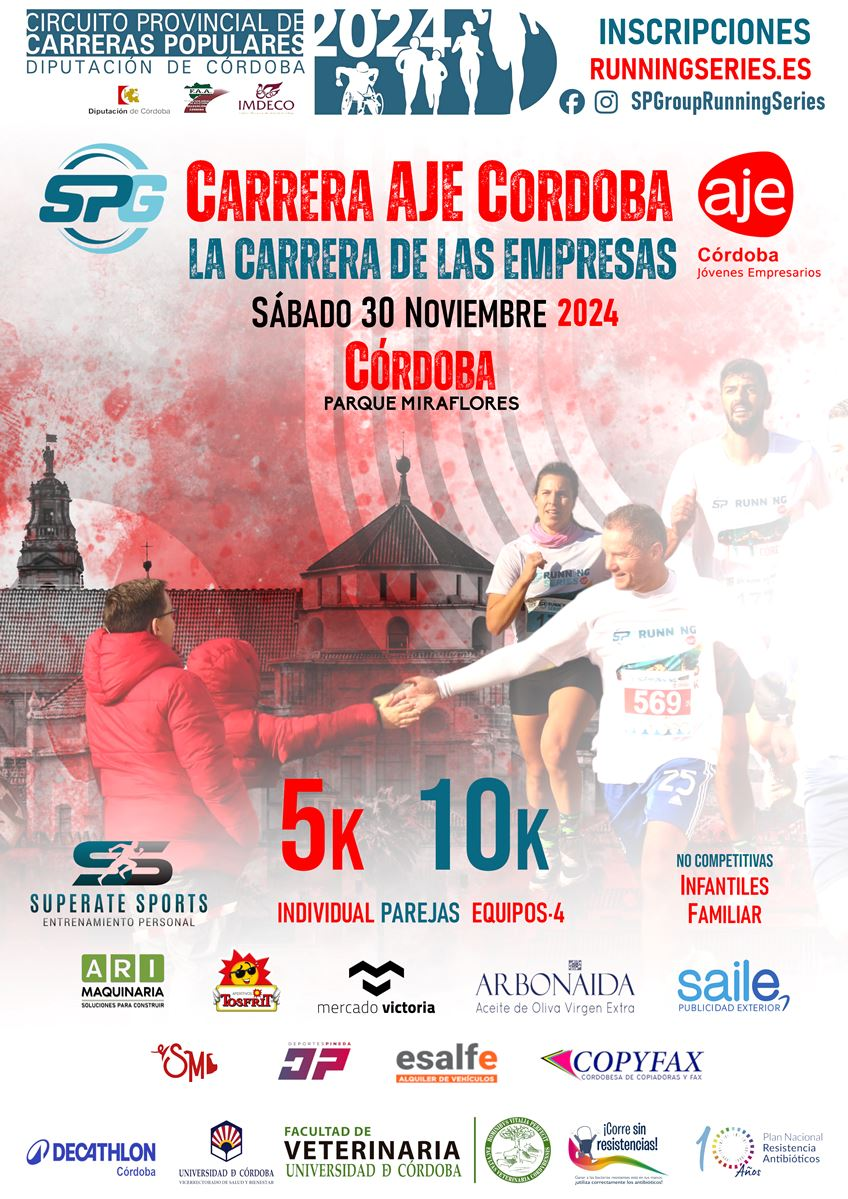
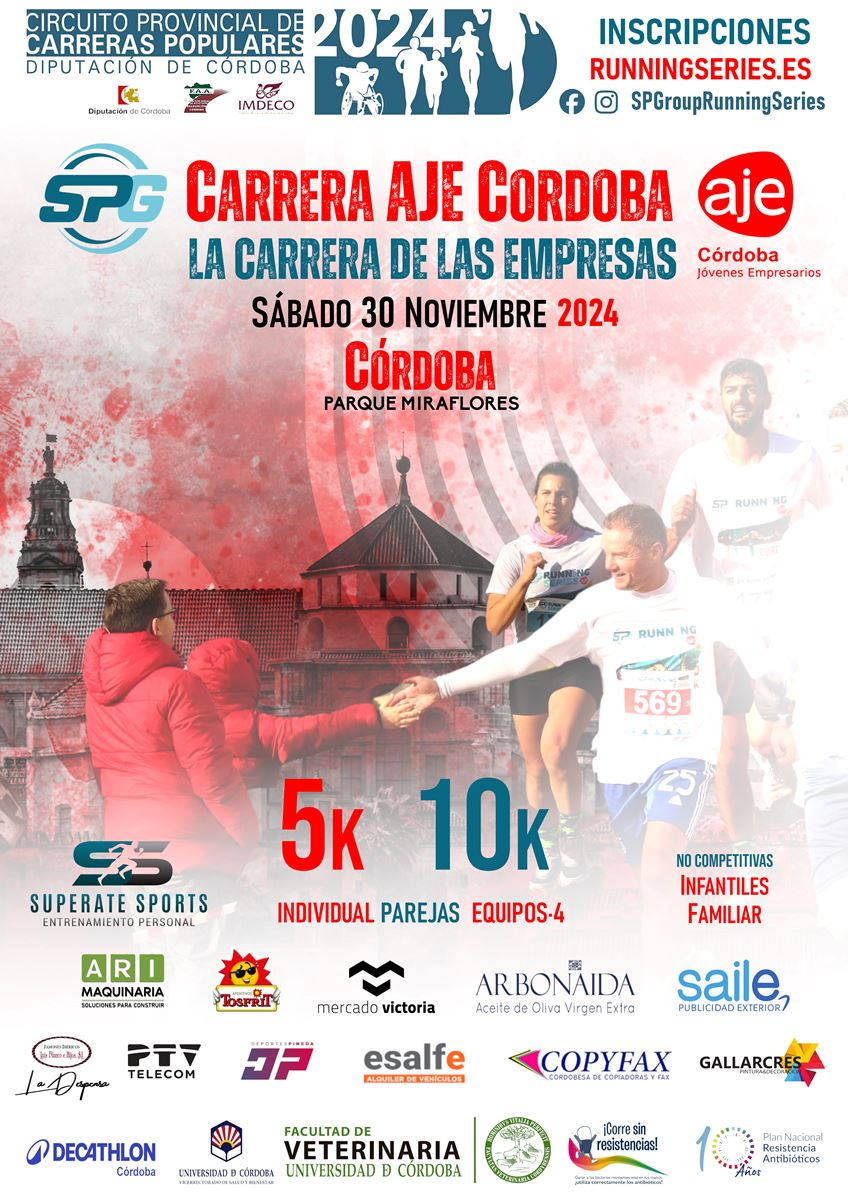
commit

Changed region(s): [[0.1533, 0.8641, 0.9811, 0.9258], [0.0307, 0.8641, 0.1226, 0.9258]]

diff --git a/index.html b/index.html
@@ -55,20 +55,20 @@
                 <a href="#" class="nav-item nav-link active">2024</a>
                 <a href="#carrera" class="nav-item nav-link">LA CARRERA</a>
                 <!--
-    <div class="nav-item dropdown">
-        <a href="#" class="nav-link dropdown-toggle" data-bs-toggle="dropdown">OTRAS EDICIONES</a>
-        <div class="dropdown-menu m-0">
-            <a href="2023" class="dropdown-item">2023</a>
-            <a href="2022" class="dropdown-item">2022</a>
-            <a class="dropdown-item">2021 COVID</a>
-            <a class="dropdown-item">2020 COVID</a>
-            <a href="2018" class="dropdown-item">2018</a>
-            <a href="2017" class="dropdown-item">2017</a>
-            <a href="2016" class="dropdown-item">2016</a>
-            <a href="2015" class="dropdown-item">2015</a>
-        </div>
-    </div>
-        -->
+                <div class="nav-item dropdown">
+                    <a href="#" class="nav-link dropdown-toggle" data-bs-toggle="dropdown">OTRAS EDICIONES</a>
+                    <div class="dropdown-menu m-0">
+                        <a href="2023" class="dropdown-item">2023</a>
+                        <a href="2022" class="dropdown-item">2022</a>
+                        <a class="dropdown-item">2021 COVID</a>
+                        <a class="dropdown-item">2020 COVID</a>
+                        <a href="2018" class="dropdown-item">2018</a>
+                        <a href="2017" class="dropdown-item">2017</a>
+                        <a href="2016" class="dropdown-item">2016</a>
+                        <a href="2015" class="dropdown-item">2015</a>
+                    </div>
+                </div>
+                    -->
                 <a href="#contacto" class="nav-item nav-link">CONTACTO</a>
             </div>
             <a href="#" class="btn btn-primary rounded-0 py-2 px-lg-4 d-none d-lg-block">INSCRÍBETE PRÓXIMAMENTE<i class="fa fa-arrow-right ms-3"></i></a>
@@ -336,21 +336,24 @@
                     <a href="https://arbonaida.com/" target="_blank"><p class="text-primary">arbonaida.com</p></a>
                     <span class="fs-5 text-blue">Arbonaida, más que un aceite...Desde Córdoba, en Santa Cruz, plena campiña cordobesa, donde se producen algunos de los mejores aceites virgen extra del mundo por sus condiciones de clima y suelo.</span>
                 </div>
+            </div>
+            <div class="owl-carousel testimonial-carousel wow fadeInUp" data-wow-delay="0.1s">
                 <div class="testimonial-item text-center" data-dot="<img class='img-fluid' src='img/logo-saile.png' alt='saile'>">
                     <h4 class="text-uppercase">Saile Publicidad Exterior</h4>
                     <a href="https://sailes.es/" target="_blank"><p class="text-primary">saile.es</p></a>
                     <span class="fs-5 text-blue">Anuncia tu marca en zonas estratégicas de la ciudad. + 50.000 impactos diarios. 100% de cobertura en toda la ciudad. 75% más de visibilidad de marca.</span>
                 </div>
-                <div class="testimonial-item text-center" data-dot="<img class='img-fluid' src='img/logo-montanera.png' alt='solo montanera'>">
-                    <h4 class="text-uppercase">Solo Montanera</h4>
-                    <a href="https://solomontanera.com/" target="_blank"><p class="text-primary">solomontanera.com</p></a>
-                    <span class="fs-5 text-blue">Todos los productos SOLO MONTANERA son fruto de la selección más exclusiva de sus cerdos ibéricos, los cuales son criados en libertad en sus dehesas situadas en el Valle de Los Pedroches de Córdoba.</span>
+                <div class="testimonial-item text-center" data-dot="<img class='img-fluid' src='img/logo-despensa.png' alt='la despensa de luis blanco'>">
+                    <h4 class="text-uppercase">La Despensa de Luis Blanco</h4>
+                    <a href="https://ladespensadeluisblanco.es/" target="_blank"><p class="text-primary">ladespensadeluisblanco.es</p></a>
+                    <span class="fs-5 text-blue">A partir de nuestras propias y seleccionadas piaras de cerdos ibéricos criados en libertad en el Valle de los Pedroches (Córdoba). Siguiendo la más pura tradición artesanal en todo el proceso de elaboración, en Jamones de bellota Luis Blanco Rojas e Hijos consiguen los mejores productos ibéricos de bellota y de cebo, avalados por certificados de calidad.</span>
                 </div>
                 <div class="testimonial-item text-center" data-dot="<img class='img-fluid' src='img/logo-fernandopineda.png' alt='deportes fernando pineda'>">
                     <h4 class="text-uppercase">Deportes Fernando Pineda</h4>
                     <a href="https://www.facebook.com/DeportesFernandoPinedaRunning" target="_blank"><p class="text-primary">Deportes Fernando Pineda</p></a>
                     <span class="fs-5 text-blue">Tienda especializada en productos de atletismo en Córdoba.</span>
                 </div>
+
                 <div class="testimonial-item text-center" data-dot="<img class='img-fluid' src='img/logo-esalfe.png' alt='esalfe'>">
                     <h4 class="text-uppercase">Esalfe</h4>
                     <a href="https://esalfe.es/" target="_blank"><p class="text-primary">esalfe.es</p></a>
@@ -360,6 +363,16 @@
                     <h4 class="text-uppercase">Copyfax</h4>
                     <a href="https://copyfaxcor.com/" target="_blank"><p class="text-primary">copyfaxcor.com</p></a>
                     <span class="fs-5 text-blue">Más de 25 años de experiencia en el sector de la venta, alquiler, mantenimiento, distribución y reparación de fotocopiadoras, impresoras, multifuncionales, escáner y otros equipos de oficina; así como la venta de sus consumibles.</span>
+                </div>
+                <div class="testimonial-item text-center" data-dot="<img class='img-fluid' src='img/logo-ptv.png' alt='ptv'>">
+                    <h4 class="text-uppercase">PTV</h4>
+                    <a href="https://www.ptvtelecom.com/" target="_blank"><p class="text-primary">ptvtelecom.com</p></a>
+                    <span class="fs-5 text-blue">+40 años en el servicio de las telecomunicaciones. Televisión, Internet, Telefonía Fija y Móvil.</span>
+                </div>
+                <div class="testimonial-item text-center" data-dot="<img class='img-fluid' src='img/logo-gallarcres.png' alt='ptv'>">
+                    <h4 class="text-uppercase">Gallarcres</h4>
+                    <a href="https://gallarcres.com/" target="_blank"><p class="text-primary">gallarcres.com</p></a>
+                    <span class="fs-5 text-blue">+20 años formando un equipo de profesionales altamente cualificado y experimentado en decoración y pintura profesional. Su principal objetivo es satisfacer, en todo momento, las necesidades y requerimientos de sus clientes ofreciendo un servicio dotado de las más altas cotas de calidad.</span>
                 </div>
             </div>
         </div>

diff --git a/css/style.css b/css/style.css
@@ -270,7 +270,7 @@ margin-bottom: 15px !important;
 /*** Testimonial ***/
 .testimonial-carousel {
     max-width: 700px;
-    margin: 0 auto;
+    margin: 100px auto;
 }
 
 .testimonial-carousel .owl-dots {
